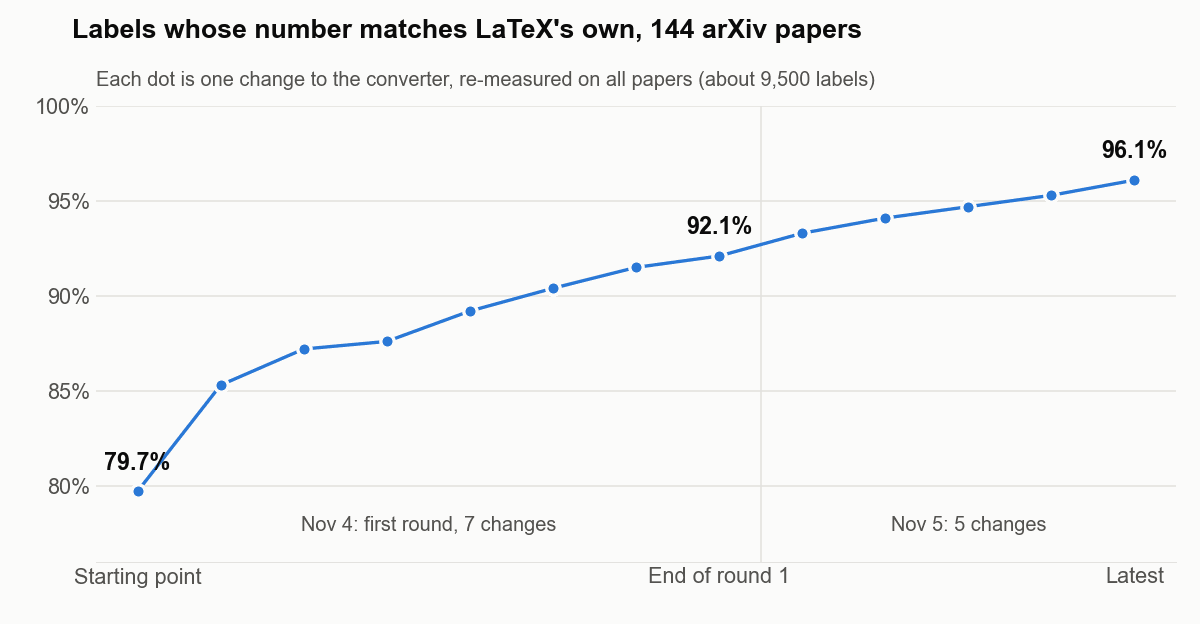
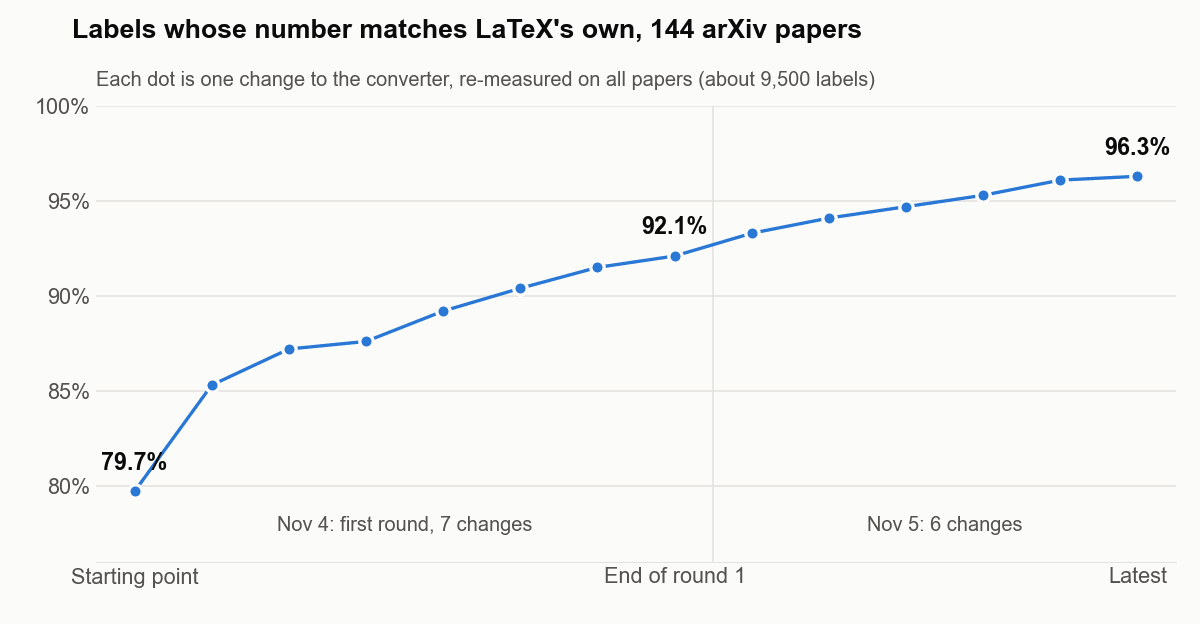
post(r227): log line 7 - second pseudo-code style, 96.3%
Claude-Session: https://claude.ai/code/session_01WtnKZYLqXGfnwQ1eY7a3NB

diff --git a/_posts/2026-11-15-how-equation-numbers-survive-latex-to-word.md b/_posts/2026-11-15-how-equation-numbers-survive-latex-to-word.md
@@ -70,12 +70,13 @@ When we started measuring, 79.7% of the labels came out with LaTeX's number. Sin
 | Nov 5 | Equations grouped as 2a, 2b, 2c, and counters changed or an appendix started in the middle of a paragraph | 94.7% |
 | Nov 5 | Pseudo-code blocks with numbered lines: each line gets its number, and a reference to a line points at it | 95.3% |
 | Nov 5 | Section numbering depth changed in the middle of a paper, and a figure made of sub-figures with no caption of its own still takes its number | 96.1% |
+| Nov 5 | Pseudo-code written in the other common style gets numbered lines too, counted the way LaTeX counts them | 96.3% |
 
-![Line chart of the share of labels whose number matches LaTeX's own on 144 arXiv papers. It starts at 79.7%, climbs through 7 changes to 92.1% at the end of the first round on November 4, then through 5 more changes to 96.1% on November 5.](/assets/img/posts/2026-11-15-equation-numbers-latex-to-word/02-progress.png){: width="720" }
-_The same log as a chart. Each dot is one change, re-measured on all 144 papers. Latest (November 5): 96.1% of about 9,500 labels match LaTeX's `.aux`._
+![Line chart of the share of labels whose number matches LaTeX's own on 144 arXiv papers. It starts at 79.7%, climbs through 7 changes to 92.1% at the end of the first round on November 4, then through 6 more changes to 96.3% on November 5.](/assets/img/posts/2026-11-15-equation-numbers-latex-to-word/02-progress.png){: width="720" }
+_The same log as a chart. Each dot is one change, re-measured on all 144 papers. Latest (November 5): 96.3% of about 9,500 labels match LaTeX's `.aux`._
 <!-- log:end -->
 
-The first round was the common machinery. Everything after it is the long tail: constructs that only some papers use, each worth between about fifty and a hundred labels across the 144 papers. None of them has needed anything Word can't hold. They need the counting to be read more carefully, one construct at a time.
+The first round was the common machinery. Everything after it is the long tail: constructs that only some papers use, each worth somewhere between twenty and a hundred labels across the 144 papers. None of them has needed anything Word can't hold. They need the counting to be read more carefully, one construct at a time.
 
 One thing to keep in mind about these numbers: they are development numbers, measured on the papers we work with. Before the converter goes live we will run it on papers it has never seen, and that is the number we will stand behind.
 
